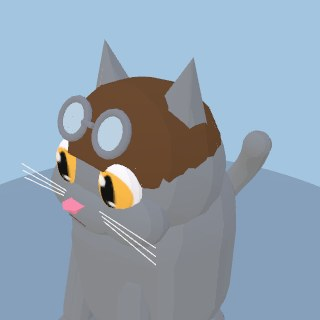
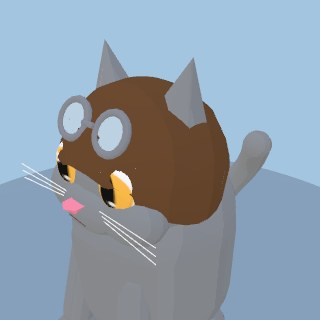
Accessory fit polish + distinct accessories for every preset cat
Fit fixes from review:
- Crown lowered so its band meets the scalp (skull radius ~0.37 at the
  new base height) instead of hovering; jewel follows.
- Tricorn folds broadened (lower exponent) and phase-flipped so the
  brim's corner POINTS land at the front and rear quarters, folds between.
- Cowboy hat seated lower on the head.
- Aviator cap widened past the skull all the way down so the molded side
  flaps hang OUTSIDE the cheeks and are actually visible.
- Racing helmet raised so the rim sits at the brow (eyes clear), stripe
  ends tucked inside the shell, and a chin-strap half-ring added.
- Chef toque slimmer + higher, riding between the ears.
- Wizard stars seated ON the cone's surface (they floated off the taper).
- Viking horns: taperedTube now caps both ends (they read hollow), horn
  material double-sided.
- Bandana + scarf bands: wider bottom rim shifted forward so the low edge
  stays proud of the chest and shoulders.

Every preset cat now wears a DISTINCT accessory — new prize pieces fill
the dupes/gaps: Whiskey gets the cowboy hat (obviously), Patches the
party hat, Pepper the racing helmet, Ziggy the aviator cap, Misty the
wizard hat, Biscuit the chef toque; presets can override their pattern's
default via a new accessory field, plumbed through the garage and the
catalog shots.

Also adds CLAUDE.md recording the molded-surface modeling rules (lathe /
tapered sweep / body-conforming strips — never primitive assemblies for
[…]

diff --git a/src/models.js b/src/models.js
@@ -684,6 +684,19 @@ function taperedTube(pts, r0, r1, segs = 14, radial = 10) {
       const a = i * (radial + 1) + j, b2 = a + radial + 1;
       idx.push(a, b2, a + 1, a + 1, b2, b2 + 1);
     }
+  // End caps (fans to the curve's endpoints) so the sweep reads SOLID from
+  // every angle — an open tube shows its hollow mouth. Pair the mesh with a
+  // DoubleSide material so cap winding never matters.
+  const c0 = curve.getPoint(0), c1 = curve.getPoint(1);
+  const bi = pos.length / 3;
+  pos.push(c0.x, c0.y, c0.z); uv.push(0.5, 0);
+  const ti = pos.length / 3;
+  pos.push(c1.x, c1.y, c1.z); uv.push(0.5, 1);
+  for (let j = 0; j < radial; j++) {
+    idx.push(bi, j + 1, j);
+    const t0 = segs * (radial + 1) + j;
+    idx.push(ti, t0, t0 + 1);
+  }
   const g = new THREE.BufferGeometry();
   g.setAttribute("position", new THREE.Float32BufferAttribute(pos, 3));
   g.setAttribute("uv", new THREE.Float32BufferAttribute(uv, 2));
@@ -1202,8 +1215,11 @@ export function createCat(furColor = 0xf0a830, opts = {}) {
     // (same fit rules as the collar below — rim grazes the torso at both ends).
     // (Ring smaller + shifted forward for the same egg-section fit reasons as
     // the collar below.)
-    const band = new THREE.Mesh(new THREE.CylinderGeometry(0.82, 0.9, 0.2, 32, 1, true), bandMat);
-    band.position.set(0, 1.68, 0.08); band.rotation.x = 0.3; acc.add(band); // steeper tilt: the front-top edge stays below the cheeks
+    // Steeper tilt keeps the top edge below the cheeks; the WIDER bottom rim
+    // (0.94, shifted to z0.10) keeps the low edge proud of the chest and
+    // shoulders instead of dipping under the torso surface.
+    const band = new THREE.Mesh(new THREE.CylinderGeometry(0.82, 0.94, 0.2, 32, 1, true), bandMat);
+    band.position.set(0, 1.68, 0.1); band.rotation.x = 0.3; acc.add(band);
     // Kerchief: a wide, short inverted triangle. NOT a flat sheet — it bulges
     // FORWARD in the middle (a gentle fold) so it drapes OVER the rounded chest
     // instead of the chest bulging through a flat plane. Top edge tucks behind the
@@ -1284,8 +1300,10 @@ export function createCat(furColor = 0xf0a830, opts = {}) {
       // triangle wave: 0 at valleys, 1 at each of the six tips
       const tri = 1 - Math.abs(((i / S) * POINTS * 2) % 2 - 1);
       const rb = 0.36, rt = 0.38 + tri * 0.02;
-      pos.push(Math.sin(a) * rb, 0.76, Math.cos(a) * rb + 0.08);
-      pos.push(Math.sin(a) * rt, 0.92 + tri * 0.24, Math.cos(a) * rt + 0.08);
+      // base y0.64: the skull's horizontal radius is ~0.37 there, so the band
+      // bottom meets the scalp instead of hovering above it
+      pos.push(Math.sin(a) * rb, 0.64, Math.cos(a) * rb + 0.08);
+      pos.push(Math.sin(a) * rt, 0.8 + tri * 0.24, Math.cos(a) * rt + 0.08);
       uvArr.push(i / S, 0, i / S, 1);
     }
     for (let i = 0; i < S; i++) {
@@ -1301,7 +1319,7 @@ export function createCat(furColor = 0xf0a830, opts = {}) {
       new THREE.MeshStandardMaterial({ color: accCol, roughness: 0.35, metalness: 0.7, side: THREE.DoubleSide }));
     acc.add(crown);
     const jewel = new THREE.Mesh(new THREE.SphereGeometry(0.05, 10, 10), accMat(0xe23b3b, 0.25, 0.3));
-    jewel.position.set(0, 0.84, 0.46); acc.add(jewel);  } else if (accId === "pirate") {
+    jewel.position.set(0, 0.72, 0.45); acc.add(jewel);  } else if (accId === "pirate") {
     // tricorn — ONE lathed surface: dome + brim in a single profile, then the
     // brim is folded UP-AND-INWARD in three places (cos 3θ lobes), exactly how
     // a real tricorn is a round hat with its brim pinned up three times.
@@ -1310,10 +1328,12 @@ export function createCat(furColor = 0xf0a830, opts = {}) {
     const geo = latheDeform(profile, 40, (v, theta, r) => {
       if (r <= 0.62) return; // dome untouched; only the brim folds
       const k = (r - 0.62) / 0.33;                       // 0 at brim root → 1 at edge
-      const fold = Math.pow(Math.max(0, Math.cos(3 * theta)), 1.4); // three lobes (front + two rear)
-      v.y += 0.5 * fold * k;
-      const pull = 1 - 0.45 * fold * k;                  // folded edge curls in toward the dome
-      v.x *= pull; v.z = (v.z - 0) * pull;
+      // BROAD folds (low exponent) at the back and front-sides, so the brim's
+      // corner points land at the FRONT and rear quarters like a real tricorn
+      const fold = Math.pow(Math.max(0, -Math.cos(3 * theta)), 0.8);
+      v.y += 0.42 * fold * k;
+      const pull = 1 - 0.35 * fold * k;                  // folded edge curls in toward the dome
+      v.x *= pull; v.z *= pull;
     });
     const hat = new THREE.Mesh(geo, m);
     hat.position.set(0, 0.1, 0.02); acc.add(hat);
@@ -1350,23 +1370,25 @@ export function createCat(furColor = 0xf0a830, opts = {}) {
       }
     });
     const hat = new THREE.Mesh(geo, m);
-    hat.position.set(0, 0.02, 0.02); hat.scale.set(1, 1, 0.94); acc.add(hat);
+    hat.position.set(0, -0.1, 0.02); hat.scale.set(1, 1, 0.94); acc.add(hat);
     const hatband = new THREE.Mesh(new THREE.CylinderGeometry(0.52, 0.53, 0.1, 18), accMat(accColDark()));
-    hatband.position.set(0, 0.7, 0.02); hatband.scale.set(1, 1, 0.94); acc.add(hatband);  } else if (accId === "aviator") {
+    hatband.position.set(0, 0.58, 0.02); hatband.scale.set(1, 1, 0.94); acc.add(hatband);  } else if (accId === "aviator") {
     // leather flight cap — ONE lathed surface whose skirt hangs LONG at the
     // sides (the ear flaps) and lifts clear of the face and nape: the flaps
     // are part of the cap's own surface, molded, never clipping the head.
     const m = new THREE.MeshStandardMaterial({ color: accCol, roughness: 0.7, side: THREE.DoubleSide });
-    const profile = [[0.68, -0.15], [0.72, 0.1], [0.7, 0.32], [0.6, 0.55], [0.42, 0.72], [0.2, 0.8], [0, 0.82]];
+    // Wider than the skull (~0.81 half-width) all the way down, so the side
+    // flaps hang OUTSIDE the cheeks instead of vanishing into them.
+    const profile = [[0.8, -0.28], [0.83, 0.0], [0.78, 0.28], [0.66, 0.52], [0.46, 0.7], [0.22, 0.8], [0, 0.82]];
     const geo = latheDeform(profile, 36, (v, theta) => {
-      if (v.y < 0.32) {
+      if (v.y < 0.28) {
         // skirt zone: raise the front and back, leave the sides hanging as flaps
         const side = Math.pow(Math.abs(Math.sin(theta)), 1.6);
-        v.y += (0.32 - v.y) * (1 - side) * 0.95;
+        v.y += (0.28 - v.y) * (1 - side) * 0.95;
       }
     });
     const cap = new THREE.Mesh(geo, m);
-    cap.position.set(0, 0, 0.02); cap.scale.set(1.06, 1, 1.02); acc.add(cap);
+    cap.position.set(0, 0, 0.02); cap.scale.set(1.02, 1, 0.98); acc.add(cap);
     // Goggles rest ON the cap's surface (centres pushed out along the dome's
     // normal, tilted to lie against the slope) so they never sink into it.
     const gm = accMat(0x8a8f98, 0.4, 0.6);
@@ -1384,23 +1406,27 @@ export function createCat(furColor = 0xf0a830, opts = {}) {
     const m = new THREE.MeshStandardMaterial({ color: accCol, roughness: 0.35, side: THREE.DoubleSide });
     const profile = [[0.72, 0.24], [0.75, 0.32], [0.72, 0.48], [0.6, 0.66], [0.4, 0.79], [0.2, 0.85], [0, 0.87]];
     const shell = new THREE.Mesh(latheDeform(profile, 36), m);
-    shell.position.set(0, 0, 0.03); shell.scale.set(1.1, 0.98, 1.04); acc.add(shell);
+    shell.position.set(0, 0.14, 0.03); shell.scale.set(1.1, 0.98, 1.04); acc.add(shell); // raised: rim sits at the brow, not over the eyes
     const stripe = new THREE.Mesh(new THREE.TorusGeometry(0.76, 0.045, 8, 24, Math.PI), accMat(0xf0f0f0, 0.4));
     stripe.rotation.y = -Math.PI / 2; // arc runs nose-to-nape over the dome
-    stripe.position.set(0, 0.12, 0.03); stripe.scale.set(1, 0.98, 1.05); acc.add(stripe);
+    stripe.position.set(0, 0.26, 0.03); stripe.scale.set(1, 0.88, 1.0); acc.add(stripe); // ends tuck INSIDE the shell rim
     const peak = new THREE.Mesh(rbox(0.56, 0.05, 0.3, 0.04), accMat(0x1a1f26, 0.3, 0.3));
-    peak.position.set(0, 0.42, 0.78); peak.rotation.x = -0.28; acc.add(peak);  } else if (accId === "chef") {
+    peak.position.set(0, 0.52, 0.76); peak.rotation.x = -0.28; acc.add(peak);
+    // chin strap: a half-ring hanging from the helmet sides under the jaw
+    const strap = new THREE.Mesh(new THREE.TorusGeometry(0.58, 0.035, 6, 22, Math.PI), accMat(0x3a3f46, 0.5));
+    strap.rotation.z = Math.PI; // bottom half of the ring
+    strap.position.set(0, 0.2, 0.32); strap.scale.set(1.18, 1.0, 1); acc.add(strap);  } else if (accId === "chef") {
     // toque — the original band-plus-cloud proportions, scaled up a touch
     // (the first pass looked right, just small)
     const m = accMat(accCol, 0.85);
-    const band = new THREE.Mesh(new THREE.CylinderGeometry(0.58, 0.58, 0.3, 18), m);
-    band.position.set(0, 0.56, 0.02); acc.add(band);
-    const puff = new THREE.Mesh(new THREE.SphereGeometry(0.55, 14, 12), m);
-    puff.position.set(0, 0.95, 0.02); puff.scale.set(1, 0.75, 1); acc.add(puff);
+    const band = new THREE.Mesh(new THREE.CylinderGeometry(0.53, 0.53, 0.3, 18), m);
+    band.position.set(0, 0.62, 0.02); acc.add(band); // slimmer + higher so it rides between the ears
+    const puff = new THREE.Mesh(new THREE.SphereGeometry(0.52, 14, 12), m);
+    puff.position.set(0, 1.0, 0.02); puff.scale.set(1, 0.75, 1); acc.add(puff);
     for (let i = 0; i < 4; i++) {
       const a = (i / 4) * Math.PI * 2 + 0.5;
-      const lobe = new THREE.Mesh(new THREE.SphereGeometry(0.26, 10, 10), m);
-      lobe.position.set(Math.sin(a) * 0.37, 1.0, Math.cos(a) * 0.37 + 0.02); acc.add(lobe);
+      const lobe = new THREE.Mesh(new THREE.SphereGeometry(0.24, 10, 10), m);
+      lobe.position.set(Math.sin(a) * 0.35, 1.06, Math.cos(a) * 0.35 + 0.02); acc.add(lobe);
     }  } else if (accId === "wizard") {
     // tall pointed hat, perched a bit higher so its brim rides the crown of
     // the head clear of the ears and scalp
@@ -1413,10 +1439,12 @@ export function createCat(furColor = 0xf0a830, opts = {}) {
     // at the front)
     const wband = new THREE.Mesh(new THREE.CylinderGeometry(0.48, 0.5, 0.14, 16), accMat(accColDark()));
     wband.position.set(0, 0.67, 0.01); acc.add(wband);
+    // stars sit half-embedded ON the cone's own surface (its radius tapers
+    // from 0.5 at the base y0.575 to 0 at the tip y1.725)
     const star1 = new THREE.Mesh(new THREE.SphereGeometry(0.05, 8, 8), accMat(0xf5c518, 0.4, 0.4));
-    star1.position.set(0.2, 0.98, 0.38); acc.add(star1);
+    star1.position.set(0.15, 0.98, 0.29); acc.add(star1);
     const star2 = new THREE.Mesh(new THREE.SphereGeometry(0.04, 8, 8), accMat(0xf5c518, 0.4, 0.4));
-    star2.position.set(-0.15, 1.33, 0.24); acc.add(star2);  } else if (accId === "viking") {
+    star2.position.set(-0.1, 1.3, 0.15); acc.add(star2);  } else if (accId === "viking") {
     // metal dome + rim band + two out-swept horns with ball tips. The dome is
     // WIDER than the skull (x-radius ~0.81) so it caps the head instead of
     // sinking inside it.
@@ -1427,7 +1455,7 @@ export function createCat(furColor = 0xf0a830, opts = {}) {
     rim.position.set(0, 0.42, 0.02); rim.rotation.x = Math.PI / 2; rim.scale.set(1.02, 0.97, 1); acc.add(rim);
     // BIG horns, each ONE smooth tapered tube swept along a curve — out from
     // the helmet, then sweeping up with the tip curling slightly inward.
-    const hornMat = accMat(0xf0ead6, 0.6);
+    const hornMat = new THREE.MeshStandardMaterial({ color: 0xf0ead6, roughness: 0.6, side: THREE.DoubleSide });
     for (const sx of [-1, 1]) {
       const horn = new THREE.Mesh(taperedTube([
         new THREE.Vector3(sx * 0.6, 0.5, 0.02),
@@ -1440,8 +1468,8 @@ export function createCat(furColor = 0xf0a830, opts = {}) {
     // knit scarf: the collar's tilted cone band, taller, with a striped tail
     // draped down the chest (body frame, same fit rules as the collar).
     const m = new THREE.MeshStandardMaterial({ color: accCol, roughness: 0.85, side: THREE.DoubleSide });
-    const band = new THREE.Mesh(new THREE.CylinderGeometry(0.82, 0.9, 0.26, 32, 1, true), m);
-    band.position.set(0, 1.66, 0.08); band.rotation.x = 0.28; acc.add(band); // steeper tilt keeps the top edge below the cheeks
+    const band = new THREE.Mesh(new THREE.CylinderGeometry(0.82, 0.94, 0.26, 32, 1, true), m);
+    band.position.set(0, 1.66, 0.1); band.rotation.x = 0.28; acc.add(band); // steep tilt + wide low rim: clear of cheeks above, chest below
     // The hanging end DRAPES down the chest: a cloth ribbon whose every vertex
     // lies on the torso's own surface (+0.035), so it follows the body curve
     // out of the loop like real fabric — nothing bolted on. The white tip is

diff --git a/src/presets.js b/src/presets.js
@@ -4,22 +4,24 @@
 // asset viewer to produce the Cat-alog's prize thumbnails.
 
 // Nine distinct breeds, each a different markings template (not just a recolour
-// of the same one): see createCat for how each pattern is drawn.
+// of the same one): see createCat for how each pattern is drawn. An `accessory`
+// overrides the pattern's default so every named cat wears something DISTINCT
+// (three tabbies would otherwise all show up in the same bandana).
 export const CAT_PRESETS = [
-  { name: "Marmalade", fur: 0xf0a830, pattern: "spotted" }, // ginger spotted tabby
-  { name: "Smokey", fur: 0x8c9298, pattern: "solid" }, // plush solid grey (Russian Blue)
-  { name: "Shadow", fur: 0x2a2a2a, pattern: "tuxedo" }, // black & white tuxedo
-  { name: "Snow", fur: 0xfbfbfb, pattern: "snowshoe" }, // white + seal mask/points
-  { name: "Whiskey", fur: 0xc8966a, pattern: "tabby" }, // classic brown mackerel tabby
-  { name: "Nelson", fur: 0x4a3328, pattern: "mitted" }, // brown, white chest + socks
-  { name: "Pickle", fur: 0xf3dcb6, pattern: "point" }, // seal-point Siamese
-  { name: "Patches", fur: 0xf5ead6, pattern: "calico" }, // tricolour calico (cream + ginger + black), collar & bell
-  { name: "Pepper", fur: 0x9aa2a8, pattern: "tabby" }, // cool silver mackerel tabby
-  { name: "Cocoa", fur: 0x5a3b2a, pattern: "tortie" }, // mottled tortoiseshell (ginger + black, no white)
-  { name: "Ziggy", fur: 0xd9a34a, pattern: "bengal" }, // golden bengal, broken-ring rosettes
-  { name: "Moo", fur: 0xf6f3ea, pattern: "cow" }, // milk-white with big black patches (and a bell collar)
-  { name: "Misty", fur: 0x565e6e, pattern: "smoke" }, // blue-grey smoke, silver chest
-  { name: "Biscuit", fur: 0xe3c692, pattern: "tabby" }, // warm golden mackerel tabby
+  { name: "Marmalade", fur: 0xf0a830, pattern: "spotted" }, // ginger spotted tabby · cap
+  { name: "Smokey", fur: 0x8c9298, pattern: "solid" }, // plush solid grey (Russian Blue) · headphones
+  { name: "Shadow", fur: 0x2a2a2a, pattern: "tuxedo" }, // black & white tuxedo · sunglasses
+  { name: "Snow", fur: 0xfbfbfb, pattern: "snowshoe" }, // white + seal mask/points · beanie
+  { name: "Whiskey", fur: 0xc8966a, pattern: "tabby", accessory: "cowboy" }, // brown tabby, hat to match the name
+  { name: "Nelson", fur: 0x4a3328, pattern: "mitted" }, // brown, white chest + socks · fedora
+  { name: "Pickle", fur: 0xf3dcb6, pattern: "point" }, // seal-point Siamese · flower
+  { name: "Patches", fur: 0xf5ead6, pattern: "calico", accessory: "party" }, // tricolour calico, always celebrating
+  { name: "Pepper", fur: 0x9aa2a8, pattern: "tabby", accessory: "helmet" }, // silver tabby, full race trim
+  { name: "Cocoa", fur: 0x5a3b2a, pattern: "tortie" }, // mottled tortoiseshell · bow tie
+  { name: "Ziggy", fur: 0xd9a34a, pattern: "bengal", accessory: "aviator" }, // golden bengal daredevil
+  { name: "Moo", fur: 0xf6f3ea, pattern: "cow" }, // milk-white with big black patches · bell collar
+  { name: "Misty", fur: 0x565e6e, pattern: "smoke", accessory: "wizard" }, // blue-grey smoke, suitably mysterious
+  { name: "Biscuit", fur: 0xe3c692, pattern: "tabby", accessory: "chef" }, // warm golden tabby, fresh from the oven
 ];
 
 // Each kart: a colour, a body silhouette (style 0=GP / 1=roadster / 2=buggy /

diff --git a/src/main.js b/src/main.js
@@ -158,7 +158,8 @@ function catSpec(cfg) {
     return { name: c.name, fur: c.fur, pattern: c.pattern, accessory: c.accessory, accessoryColor: c.accessoryColor };
   }
   const p = CAT_PRESETS[cfg.cat] || CAT_PRESETS[0];
-  return { name: p.name, fur: p.fur, pattern: p.pattern, accessory: undefined, accessoryColor: undefined };
+  // Preset cats may override their pattern's default accessory (presets.js).
+  return { name: p.name, fur: p.fur, pattern: p.pattern, accessory: p.accessory, accessoryColor: undefined };
 }
 function kartSpec(cfg) {
   if (cfg.kart === CUSTOM_KART_IDX) {

diff --git a/CLAUDE.md b/CLAUDE.md
@@ -1,0 +1,39 @@
+# Zoomies GP — working notes
+
+## Art: curved surfaces are MOLDED, not assembled
+
+Never build a curved object (hat, horn, cloth, shell) by stacking primitive
+boxes/spheres/cylinders — the seams always read as parts stuck together. Use
+the molded-surface helpers in `src/models.js` (or add new ones in that style):
+
+- `latheDeform(profile, segs, deform)` — revolve ONE unbroken 2D silhouette
+  (e.g. a hat's brim + crown + dome as a single surface), then sculpt it with
+  an azimuth-aware vertex callback: brim curls, tricorn folds, ear-flap skirts
+  and crown creases are carved into the same mesh. Deforms must agree at
+  θ=±π (use cos/sin/|x| forms) so the lathe seam stays welded.
+- `taperedTube(points, r0, r1)` — sweep a shrinking circle along a curve for
+  smooth single-piece horns/tails/pipes (capped ends; pair with a DoubleSide
+  material).
+- `torsoRibbonGeo(...)` / `chestDecalGeo(...)` — cloth strips and painted-on
+  markings whose every vertex lies on the body capsule's own cross-section
+  (+small offset), so they drape/read as part of the body instead of floating.
+
+Fit rules that keep re-appearing:
+- The torso is a capsule (r 0.9, cylinder y0.61–1.39); the skull is an
+  ellipsoid (≈0.81 × 0.75 × 0.75 at head-local origin). Compute clearances
+  against these before placing anything.
+- Neckwear bands are tilted CONES (small top, wide bottom, shifted forward)
+  because a tilted plane cuts an egg-shaped body section — a straight ring
+  either floats at the nape or knifes into the chest/cheeks.
+- Verify every model change with a headless viewer render from the user's
+  screenshot angle before regenerating `assets/catalog` and pushing.
+
+## Verification loop for art changes
+
+1. `node --check src/models.js`
+2. One-off probe in `tools/` (Playwright + `/opt/pw-browsers/chromium`,
+   SwiftShader args, `viewer.html?webgl=1&plain=1`, drive `window.__viewer`),
+   screenshot to the scratchpad and LOOK at it.
+3. `node tools/catalog-shots.mjs` when presets/models changed.
+4. `npm run check` (+ `node tools/progress-check.mjs` if the economy changed),
+   `node tools/build-web.mjs`, then commit + push.
